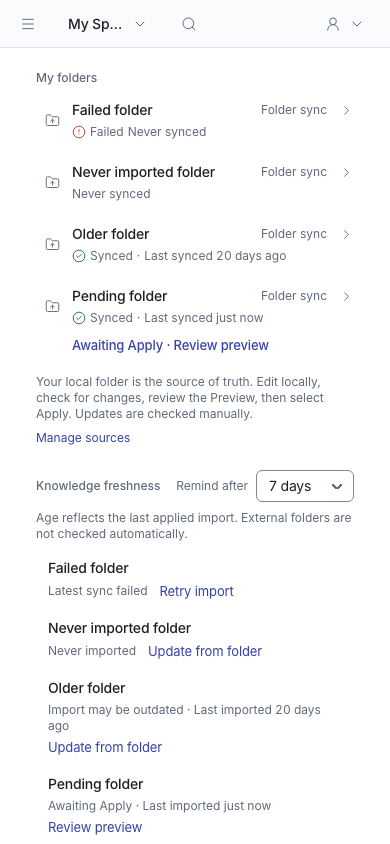
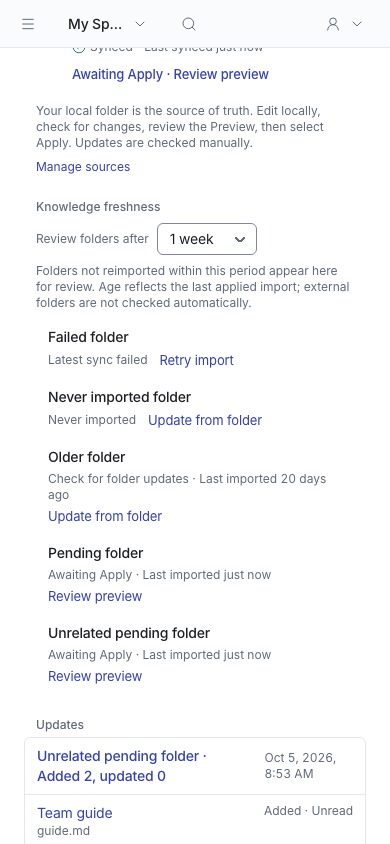
fix: default folder review reminders to one month

diff --git a/tests/e2e/mvp-freshness.spec.ts b/tests/e2e/mvp-freshness.spec.ts
@@ -13,6 +13,9 @@ test("freshness preference persists and reminders link to source actions",async(
  const endpoint=`/api/workspaces/${ws}/personal/freshness`;
  const initial=await(await request.get(endpoint)).json();
  expect((await request.put(endpoint,{data:{value:{thresholdDays:14},version:initial.version}})).ok()).toBe(true);
+ await page.goto(`/w/${ws}/home`);
+ await expect(page.getByLabel("Freshness threshold")).toHaveValue("14");
+ await expect(page.getByLabel("Freshness threshold").getByRole("option",{name:"1 month",exact:true})).toHaveAttribute("value","30");
  const sources:Record<string,string>={};
  for(const name of ["Older folder","Failed folder","Pending folder","Never imported folder"]){
   const snapshot=await stageReadingFolder(request,{workspaceId:ws,sourceName:name,fixture:"reading-flow-v1"});
@@ -39,17 +42,17 @@ test("freshness preference persists and reminders link to source actions",async(
  // Other full-suite tests may leave pending or old folders in the shared workspace.
  expect(await region.getByRole("link",{name:"Review preview"}).count()).toBeGreaterThan(1);
  const row=(name:string)=>region.getByRole("listitem").filter({has:page.locator(`a[href="/w/${ws}/sources/${sources[name]}"]`)});
- await expect(row("Older folder").getByText("Import may be outdated",{exact:false})).toBeVisible();
+ await expect(row("Older folder").getByText("Check for folder updates",{exact:false})).toBeVisible();
  await expect(row("Failed folder").getByText("Latest sync failed",{exact:false})).toBeVisible();
  await expect(row("Never imported folder").getByText("Never imported",{exact:true})).toBeVisible();
  await expect(row("Pending folder").getByRole("link",{name:"Review preview"})).toHaveAttribute("href",`/w/${ws}/sources/imports/${pending}`);
  await expect(row("Failed folder").getByRole("link",{name:"Retry import"})).toHaveAttribute("href",`/w/${ws}/sources/${sources["Failed folder"]}/update`);
  const saved=page.waitForResponse(r=>r.url().endsWith("/personal/freshness")&&r.request().method()==="PUT");
  await region.getByLabel("Freshness threshold").selectOption("30");expect((await saved).ok()).toBe(true);
- await expect(row("Older folder").getByText("Import may be outdated",{exact:false})).toHaveCount(0);
+ await expect(row("Older folder").getByText("Check for folder updates",{exact:false})).toHaveCount(0);
  await page.reload();await expect(region.getByLabel("Freshness threshold")).toHaveValue("30");
  const changed=page.waitForResponse(r=>r.url().endsWith("/personal/freshness")&&r.request().method()==="PUT");await region.getByLabel("Freshness threshold").selectOption("7");expect((await changed).ok()).toBe(true);
- await expect(row("Older folder").getByText("Import may be outdated",{exact:false})).toBeVisible();
+ await expect(row("Older folder").getByText("Check for folder updates",{exact:false})).toBeVisible();
  const output=path.resolve("docs/ui-comparisons/mvp-freshness");await mkdir(output,{recursive:true});
  await page.setViewportSize({width:1440,height:1100});await page.screenshot({path:path.join(output,"desktop.png"),fullPage:true,animations:"disabled"});
  await page.setViewportSize({width:390,height:844});await region.scrollIntoViewIfNeeded();await expect.poll(()=>page.evaluate(()=>document.documentElement.scrollWidth<=innerWidth)).toBe(true);await page.screenshot({path:path.join(output,"mobile.png"),fullPage:true,animations:"disabled"});

diff --git a/src/components/knowledge/freshness-reminders.tsx b/src/components/knowledge/freshness-reminders.tsx
@@ -24,14 +24,14 @@ export function FreshnessReminders({workspaceId,items,preference,now}: {workspac
   return <section aria-label="Knowledge freshness" className="px-3 space-y-2">
     <div className="flex flex-wrap items-center justify-between gap-2">
       <h2 className="text-caption font-medium text-kh-text-muted">Knowledge freshness</h2>
-      <label className="flex items-center gap-2 text-caption text-kh-text-muted">Remind after<Select aria-label="Freshness threshold" value={setting.thresholdDays} disabled={saving} onChange={e=>void save(Number(e.target.value) as FreshnessThreshold)}>{FRESHNESS_THRESHOLDS.map(days=><option key={days} value={days}>{days} days</option>)}</Select></label>
+      <label className="flex items-center gap-2 text-caption text-kh-text-muted">Review folders after<Select aria-label="Freshness threshold" value={setting.thresholdDays} disabled={saving} onChange={e=>void save(Number(e.target.value) as FreshnessThreshold)}>{FRESHNESS_THRESHOLDS.map(days=><option key={days} value={days}>{days === 7 ? "1 week" : days === 14 ? "2 weeks" : "1 month"}</option>)}</Select></label>
     </div>
-    <p className="text-caption text-kh-text-muted">Age reflects the last applied import. External folders are not checked automatically.</p>
+    <p className="text-caption text-kh-text-muted">Folders not reimported within this period appear here for review. Age reflects the last applied import; external folders are not checked automatically.</p>
     {error?<p role="alert" className="text-body-sm text-kh-text">{error}</p>:null}
     {saving?<p role="status" className="text-caption text-kh-text-muted">Saving reminder preference…</p>:null}
     {reminders.length?<ul className="space-y-0.5">{reminders.map(item=><li key={item.sourceId} className="kh-interactive-row flex flex-wrap items-center gap-x-3 gap-y-1 rounded-md px-3 py-2">
       <Link className="kh-focus-ring min-w-0 basis-full break-words rounded-md text-body font-medium sm:basis-auto sm:flex-1 text-kh-text" href={`/w/${workspaceId}/sources/${item.sourceId}`}>{item.sourceName}</Link>
-      <span className="text-caption text-kh-text-muted">{item.status==="pending"?"Awaiting Apply":item.status==="failed"?"Latest sync failed":item.status==="never"?"Never imported":"Import may be outdated"}{item.lastImportedAt?<> · Last imported <Timestamp value={item.lastImportedAt} variant="relative"/></>:null}</span>
+      <span className="text-caption text-kh-text-muted">{item.status==="pending"?"Awaiting Apply":item.status==="failed"?"Latest sync failed":item.status==="never"?"Never imported":"Check for folder updates"}{item.lastImportedAt?<> · Last imported <Timestamp value={item.lastImportedAt} variant="relative"/></>:null}</span>
       <Link className="kh-focus-ring rounded-md text-body-sm text-kh-link" href={item.previewId?`/w/${workspaceId}/sources/imports/${item.previewId}`:`/w/${workspaceId}/sources/${item.sourceId}/update`}>{item.status==="pending"?"Review preview":item.status==="failed"?"Retry import":"Update from folder"}</Link>
     </li>)}</ul>:<p className="text-body-sm text-kh-text-muted">No folders need a freshness reminder.</p>}
   </section>;

diff --git a/tests/unit/knowledge-freshness.test.ts b/tests/unit/knowledge-freshness.test.ts
@@ -23,7 +23,8 @@ describe("knowledge freshness",()=>{
  it("excludes archived folders and nonfolders regardless of failure",()=>{
   expect(knowledgeFreshness([ {...item(null),source:{...item(null).source,status:"ARCHIVED"}}, {...item(null),source:{...item(null).source,sourceType:"FILE_UPLOAD"}}, {...item(null),source:{...item(null).source,ownership:"HUB_MANAGED"}} ],14,now)).toEqual([]);
  });
+ it.each([7,14,30])("preserves saved threshold %s",thresholdDays=>expect(freshnessThreshold({thresholdDays})).toBe(thresholdDays));
  it.each([7,14,30])("validates threshold %s",thresholdDays=>expect(validateFreshnessValue({thresholdDays})).toEqual({thresholdDays}));
  it.each([null,{},[],{thresholdDays:8},{thresholdDays:"14"},{thresholdDays:14,other:true}])("rejects malformed value %j",value=>expect(()=>validateFreshnessValue(value)).toThrow());
- it("defaults invalid stored preferences to 14 days",()=>expect(freshnessThreshold(null)).toBe(14));
+ it("defaults missing or invalid stored preferences to 30 days",()=>expect(freshnessThreshold(null)).toBe(30));
 });

diff --git a/tests/unit/freshness-api.test.ts b/tests/unit/freshness-api.test.ts
@@ -5,7 +5,7 @@ import {GET,PUT} from "@/app/api/workspaces/[workspaceId]/personal/freshness/rou
 const context={params:Promise.resolve({workspaceId:"personal"})};
 beforeEach(()=>{state.get.mockReset().mockResolvedValue({value:null,version:0});state.put.mockReset().mockResolvedValue({version:1});});
 it("uses the fixed key and trusted caller for read and defaults",async()=>{
- expect(await GET(new Request("http://local?key=prefs:other"),context)).toEqual({thresholdDays:14,version:0});
+ expect(await GET(new Request("http://local?key=prefs:other"),context)).toEqual({thresholdDays:30,version:0});
  expect(state.get).toHaveBeenCalledWith({identity:{id:"owner"}},"personal","prefs:freshness");
 });
 it("authorizes before validation and propagates ownership denial",async()=>{

diff --git a/src/modules/personal/application/knowledge-freshness.ts b/src/modules/personal/application/knowledge-freshness.ts
@@ -12,7 +12,7 @@ export function validateFreshnessValue(value: unknown): { thresholdDays: Freshne
   return { thresholdDays: value.thresholdDays as FreshnessThreshold };
 }
 export function freshnessThreshold(value: unknown): FreshnessThreshold {
-  try { return validateFreshnessValue(value).thresholdDays; } catch { return 14; }
+  try { return validateFreshnessValue(value).thresholdDays; } catch { return 30; }
 }
 export type FreshnessReminder = { sourceId: string; sourceName: string; status: "pending" | "failed" | "never" | "old"; previewId: string | null; lastImportedAt: string | null };
 /** Pending preview takes priority, then failed attempt, then never imported, then age. */

diff --git a/docs/ui-comparisons/mvp-freshness/README.md b/docs/ui-comparisons/mvp-freshness/README.md
@@ -2,7 +2,7 @@
 
 Home lists folders awaiting Apply, with a failed latest sync, never imported, or older than the selected threshold. Each row links to the preview or the folder update flow.
 
-Personal workspace only. Default 14 days, with 7/14/30-day choices saved across sessions. Age is measured from the last successfully applied import; external folders are not checked automatically. Pending preview takes priority, then failure, then never imported, then age. Archived folders, uploads and Hub-managed sources are excluded.
+Personal workspace only. Default 1 month (30 days), with 1 week / 2 weeks / 1 month choices saved across sessions. Existing saved preferences are preserved. The control is labeled “Review folders after”; old imports show “Check for folder updates” rather than asserting that content is outdated. Age is measured from the last successfully applied import; external folders are not checked automatically. Pending preview takes priority, then failure, then never imported, then age. Archived folders, uploads and Hub-managed sources are excluded.
 
 ## Desktop
 
